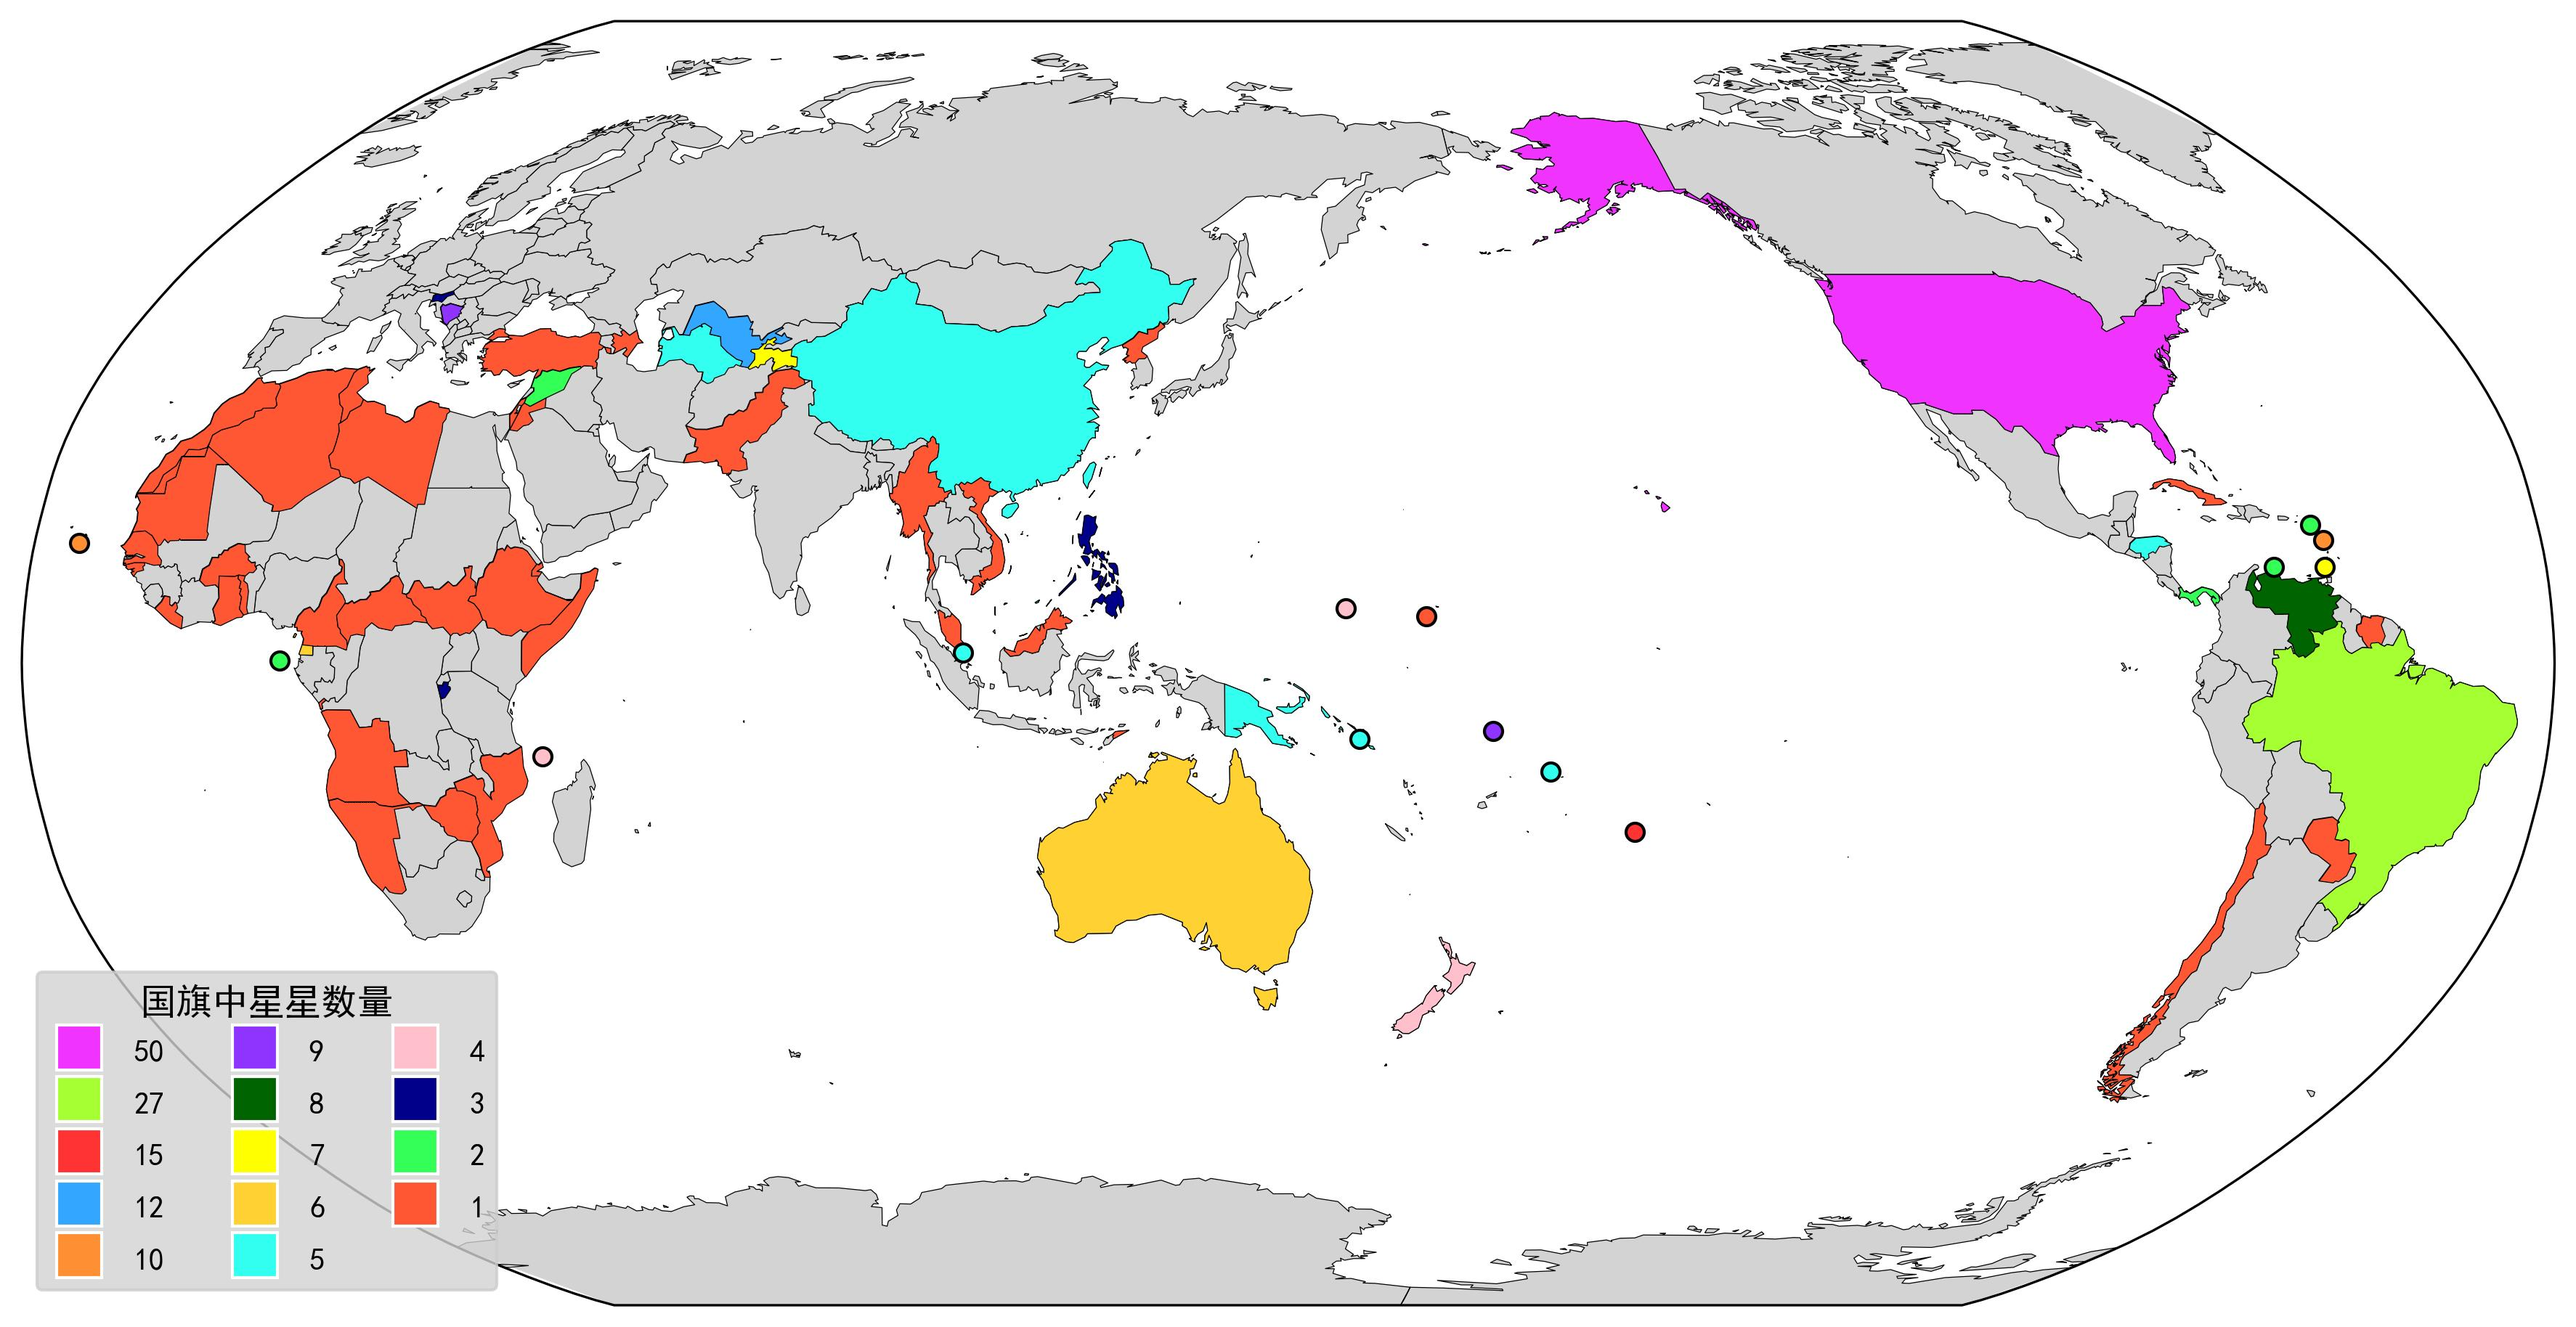
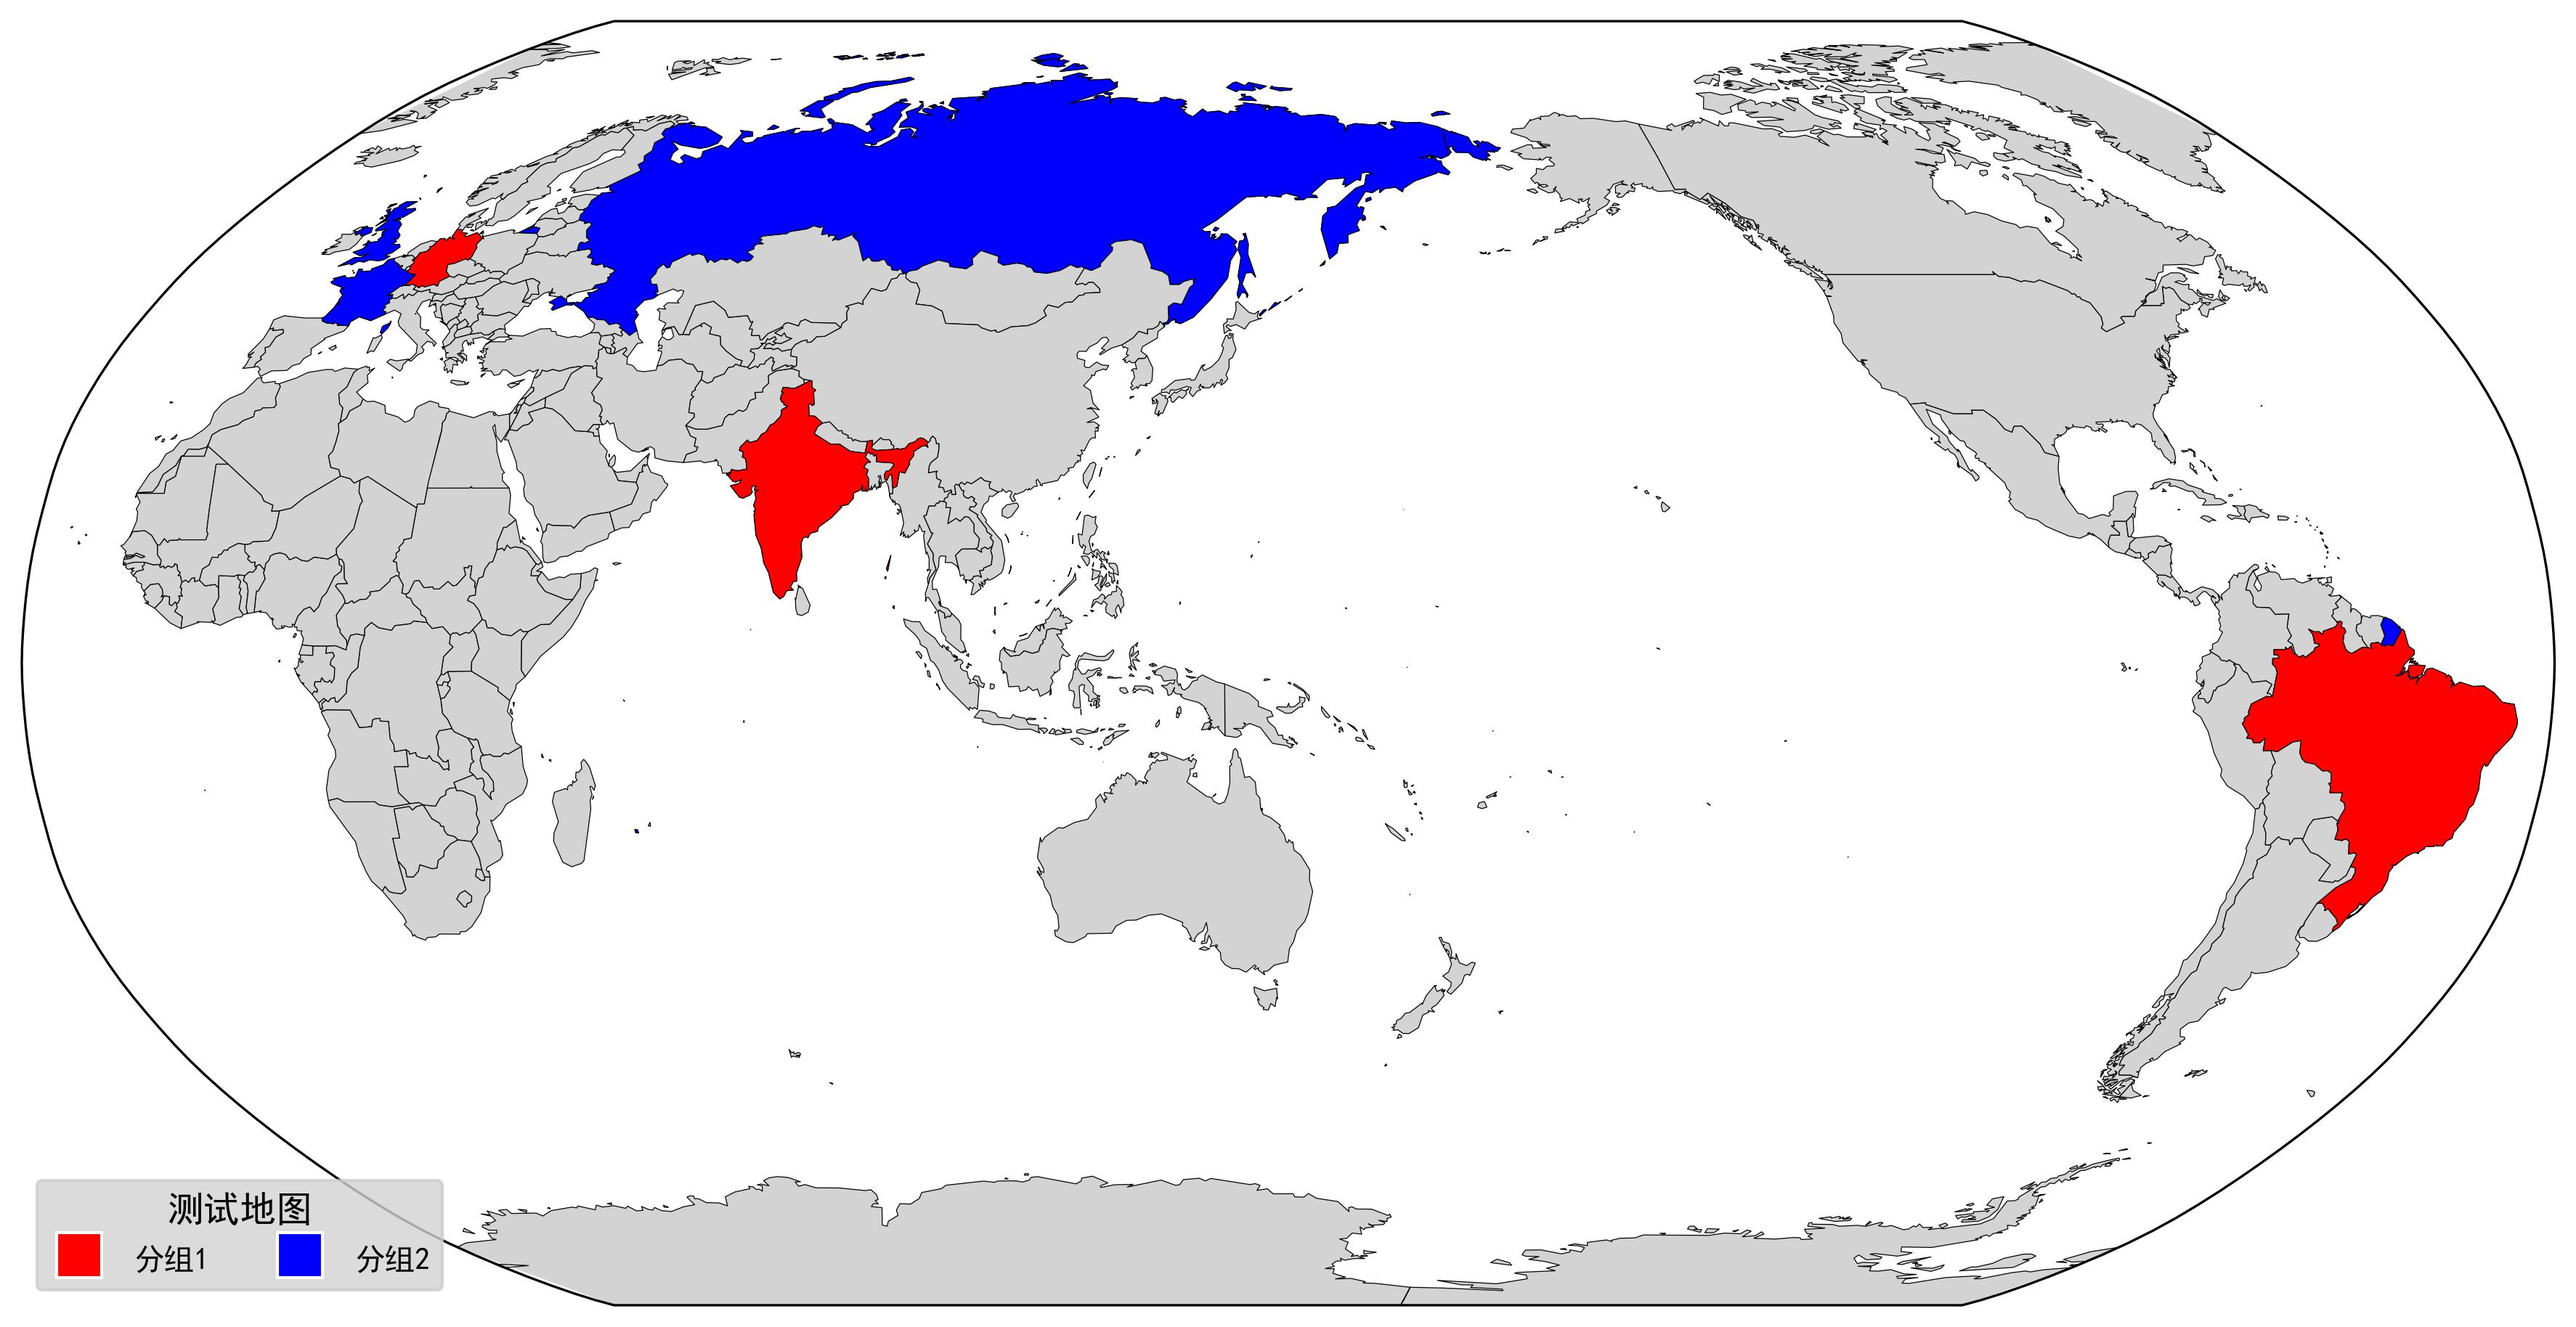
`

diff --git a/app/utils/map_utils.py b/app/utils/map_utils.py
@@ -16,6 +16,7 @@ from io import BytesIO
 import os
 import datetime
 # utils about...
+from app.schemas.schemas import CircleMap, FillinMap
 from app.utils.tools import loopFillColor, lineMark, loopFillColor, drawIslandCountry
 
 matplotlib.use('Agg')
@@ -144,7 +145,7 @@ def generate_circle_image(lon1, lat1, lon2, lat2):
     return output_path
 
 
-def fillin_color_image():
+def fillin_color_image(data: FillinMap):
     plt.rcParams['font.sans-serif'] = ['SimHei','Times New Roman']
     plt.rcParams['axes.unicode_minus'] = False
     world = gpd.read_file('./data/worldmap/world.json')
@@ -152,103 +153,12 @@ def fillin_color_image():
     fig, ax = plt.subplots(1, 1, figsize=(15, 10), subplot_kw={'projection': ccrs.Robinson(central_longitude=150)})
     world.plot(ax=ax, color='lightgray', edgecolor='black', linewidth=0.3, transform=ccrs.PlateCarree())
 
-    countries_to_fill1 = ['阿尔及利亚','安哥拉','阿塞拜疆','布基纳法索','喀麦隆','中非','智利','古巴','吉布提','刚果金','埃塞俄比亚','加纳','几内亚比绍','以色列','约旦',
-                        '利比里亚','利比亚','马来西亚','马绍尔群岛','毛里塔尼亚','摩洛哥','莫桑比克','缅甸','纳米比亚','瑙鲁','朝鲜','巴基斯坦','巴拉圭','刚果布','塞内加尔',
-                        '索马里','南苏丹','苏里南','东帝汶','多哥','突尼斯','土耳其','越南','西撒哈拉','津巴布韦']
-    loopFillColor(ax, world, countries_to_fill1, '#FF5733')
+    legend_elements = []
+    for single in data.countryList:
+        loopFillColor(ax, world, single.country, single.color)
+        legend_elements.append(Line2D([0], [0], marker='s', color='w', markerfacecolor=single.color, markersize=15, label=single.note, linestyle='None'))
 
-    countries_to_fill2 = ['库拉索','巴拿马','圣基茨和尼维斯','圣多美和普林西比','叙利亚']
-    loopFillColor(ax, world, countries_to_fill2, '#33FF57')
-
-    countries_to_fill3 = ['布隆迪','菲律宾','斯洛文尼亚']
-    loopFillColor(ax, world, countries_to_fill3, 'darkblue')
-
-    countries_to_fill4 = ['科摩罗','密克罗尼西亚','新西兰']
-    loopFillColor(ax, world, countries_to_fill4, 'pink')
-
-    countries_to_fill5 = ['中国','洪都拉斯','巴布亚新几内亚','萨摩亚','新加坡','所罗门群岛','土库曼斯坦']
-    loopFillColor(ax, world, countries_to_fill5, '#33FFF0')
-
-    countries_to_fill6 = ['澳大利亚','赤道几内亚']
-    loopFillColor(ax, world, countries_to_fill6, '#FFD133')
-
-    countries_to_fill7 = ['格林纳达','塔吉克斯坦']
-    loopFillColor(ax, world, countries_to_fill7, 'yellow')
-
-    countries_to_fill8 = ['委内瑞拉']
-    loopFillColor(ax, world, countries_to_fill8, 'darkgreen')
-
-    countries_to_fill9 = ['波黑','图瓦卢']
-    loopFillColor(ax, world, countries_to_fill9, '#8F33FF')
-
-    countries_to_fill10 = ['佛得角','多米尼克']
-    loopFillColor(ax, world, countries_to_fill10, '#FF8F33')
-
-    countries_to_fill12 = ['乌兹别克斯坦']
-    loopFillColor(ax, world, countries_to_fill12, '#33A6FF')
-
-    countries_to_fill15 = ['库克群岛']
-    loopFillColor(ax, world, countries_to_fill15, '#FF3333')
-
-    countries_to_fill27 = ['巴西']
-    loopFillColor(ax, world, countries_to_fill27, '#A6FF33')
-
-    countries_to_fill50 = ['美国']
-    loopFillColor(ax, world, countries_to_fill50, '#F033FF')
-
-    island_country = {
-        '库克群岛':[-21.235266662743765, -159.77640155811218],
-        '佛得角':[15.075660583762867, -23.627715927228998],
-        '格林纳达':[12.122113862228266, -61.673334467952486],
-        '多米尼克':[15.436902727777584, -61.338979738651105],
-        '所罗门群岛':[-9.486442050187662, 160.17259557318891],
-        '密克罗尼西亚':[6.8825268898632785, 158.2282088017763],
-        '帕劳':[7.488356129903986, 134.5573641315517],
-        '萨摩亚':[-13.591478417872379, -172.43533122131976],
-        '圣马力诺':[43.93792627533375, 12.46592907646659],
-        '圣多美和普林西比':[0.29971313113035536, 6.607277730117537],
-        '汤加':[-21.192247250489682, -175.19411004288972],
-        '瓦努阿图':[-15.327100601044503, 166.91994719767138],
-        '安道尔':[42.55533690684225, 1.5678292672253036],
-        '库拉索':[12.128071224145407, -68.9315771483982],
-        '马尔代夫':[4.1742945500092015, 73.51053025602174],
-        '马绍尔群岛':[5.921044683397229, 169.64306302946653],
-        '圣文森特和格林纳丁斯':[13.26438672030793, -61.183523116508844],
-        '塞舌尔':[-4.658958934603441, 55.45762756344232],
-        '新加坡':[1.3620466932996915, 103.80715635526157],
-        '圣基茨和尼维斯':[17.344593346604913, -62.79068450811422],
-        '科摩罗':[-11.714088255340494, 43.3312097402893],
-        '图瓦卢':[-8.520739400898155, 179.19928447986726]
-        }
-
-    drawIslandCountry(ax, island_country, countries_to_fill1, '#FF5733')
-    drawIslandCountry(ax, island_country, countries_to_fill2, '#33FF57')
-    drawIslandCountry(ax, island_country, countries_to_fill4, 'pink')
-    drawIslandCountry(ax, island_country, countries_to_fill5, '#33FFF0')
-    drawIslandCountry(ax, island_country, countries_to_fill7, 'yellow')
-    drawIslandCountry(ax, island_country, countries_to_fill9, '#8F33FF')
-    drawIslandCountry(ax, island_country, countries_to_fill10, '#FF8F33')
-    drawIslandCountry(ax, island_country, countries_to_fill15, '#FF3333')
-
-
-    legend_elements = [
-        Line2D([0], [0], marker='s', color='w', markerfacecolor='#F033FF', markersize=15, label='50', linestyle='None'),
-        Line2D([0], [0], marker='s', color='w', markerfacecolor='#A6FF33', markersize=15, label='27', linestyle='None'),
-        Line2D([0], [0], marker='s', color='w', markerfacecolor='#FF3333', markersize=15, label='15', linestyle='None'),
-        Line2D([0], [0], marker='s', color='w', markerfacecolor='#33A6FF', markersize=15, label='12', linestyle='None'),
-        Line2D([0], [0], marker='s', color='w', markerfacecolor='#FF8F33', markersize=15, label='10', linestyle='None'),
-        Line2D([0], [0], marker='s', color='w', markerfacecolor='#8F33FF', markersize=15, label='9', linestyle='None'),
-        Line2D([0], [0], marker='s', color='w', markerfacecolor='darkgreen', markersize=15, label='8', linestyle='None'),
-        Line2D([0], [0], marker='s', color='w', markerfacecolor='yellow', markersize=15, label='7', linestyle='None'),
-        Line2D([0], [0], marker='s', color='w', markerfacecolor='#FFD133', markersize=15, label='6', linestyle='None'),
-        Line2D([0], [0], marker='s', color='w', markerfacecolor='#33FFF0', markersize=15, label='5', linestyle='None'),
-        Line2D([0], [0], marker='s', color='w', markerfacecolor='pink', markersize=15, label='4', linestyle='None'),
-        Line2D([0], [0], marker='s', color='w', markerfacecolor='darkblue', markersize=15, label='3', linestyle='None'),
-        Line2D([0], [0], marker='s', color='w', markerfacecolor='#33FF57', markersize=15, label='2', linestyle='None'),
-        Line2D([0], [0], marker='s', color='w', markerfacecolor='#FF5733', markersize=15, label='1', linestyle='None')
-    ]
-
-    legend = ax.legend(handles=legend_elements, loc='lower left', title='国旗中星星数量', title_fontsize='large', ncol=3, handleheight=1.5)
+    legend = ax.legend(handles=legend_elements, loc='lower left', title='测试地图', title_fontsize='large', ncol=3, handleheight=1.5)
     legend.get_frame().set_facecolor('lightgray')
     ax.tick_params(axis='both', which='both', length=0, labelsize=0)
     output_path = os.path.join('./result', 'fillinColorMap.jpg').replace("\\", "/")

diff --git a/app/api/map.py b/app/api/map.py
@@ -1,19 +1,8 @@
 from fastapi import APIRouter, Response, HTTPException
-from pydantic import BaseModel
+from app.schemas.schemas import CircleMap, FillinMap
 from app.utils.map_utils import generate_poi_image, generate_nightshade_image, generate_circle_image, fillin_color_image
 
 router = APIRouter()
-
-class location(BaseModel):
-    lon: float
-    lat: float
-
-class CircleMap(BaseModel):
-    point1: location
-    point2: location
-
-class FillinMap(BaseModel):
-    point: list[location]
 
 @router.post("/poi_map/")
 def generate_map():
@@ -46,9 +35,9 @@ async def generate_map(request: CircleMap):
     
 
 @router.post("/fillin_color_map/")
-async def generate_map():
+async def generate_map(request: FillinMap):
     try:
-        output_path = fillin_color_image()
+        output_path = fillin_color_image(request)
         return {
             "message": "success", 
             "status": 200,

diff --git a/app/schemas/schemas.py b/app/schemas/schemas.py
@@ -1,0 +1,17 @@
+from pydantic import BaseModel
+
+class location(BaseModel):
+    lon: float
+    lat: float
+
+class CircleMap(BaseModel):
+    point1: location
+    point2: location
+
+class countryList(BaseModel):
+    country: list[str]
+    color: str
+    note: str | None = None
+
+class FillinMap(BaseModel):
+    countryList: list[countryList]
